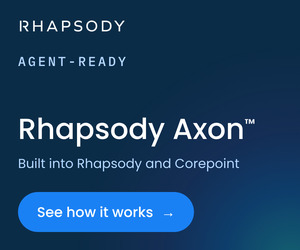
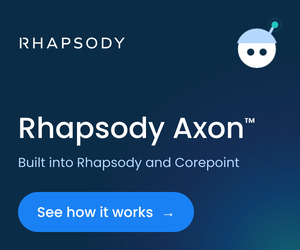
Add Teddie Mercury to the HCITT ads, drop the eyebrow
The AGENT-READY eyebrow was the website's "Agent-ready interoperability" label
truncated to fit the unit, and it read as a fragment rather than as the eyebrow
it came from. Removing it rather than shortening it further follows the rule to
cut copy instead of crushing type, and frees the slot for the mascot.

Teddie is the face of the Rhapsody Axon assistant per the mascot card, so he fits
an Axon-led ad. Placement follows the card: beside the copy and never in it, at
50px on the sidebar and 32px on the header against a 22-29px headline, clear of
the logo's X-height and not merged into a lockup, on navy over a soft Aurora
glow, with no dot device and one per asset.

On the header the mascot and a labelled pill cannot both sit beside the copy at
40px, which forces the CTA down to a bare arrow chip. Dropping him to 32px keeps
"See how" on the pill, which is the better trade on the unit that is buying
clickthroughs.

He ships static; the card permits animating him only from the approved animation
files and only a still is available here.

Two items for brand, both recorded in the README: a paid display ad is not one of
the mascot card's listed placements, and the character was isolated from the
homepage hero still by connected component rather than taken from an isolated
master file. The extraction is lossless, at native resolution, with no redraw,
recolor, re-pose or rescale, but it should be re-mastered before the ads run.
[…]

diff --git a/deliverables/hcitt-display-ads/README.md b/deliverables/hcitt-display-ads/README.md
@@ -2,14 +2,15 @@
 
 Animated GIF creative for the Healthcare IT Today header and sidebar placements,
 built to the 2026 design system (`brand-design-system-2026`) with copy per
-`rhapsody-brand`. Angle: the Rhapsody Axon™ agentic story.
+`rhapsody-brand`. Angle: the Rhapsody Axon™ agentic story, with Teddie Mercury as
+the face of the assistant.
 
 ## Files to send the publisher
 
 | Placement | File | Size | Weight |
 |---|---|---|---|
-| Header display ad | `rhapsody-hcitt-500x80.gif` | 500 × 80 | 93 KB |
-| Sidebar display ad | `rhapsody-hcitt-300x250.gif` | 300 × 250 | 180 KB |
+| Header display ad | `rhapsody-hcitt-500x80.gif` | 500 × 80 | 92 KB |
+| Sidebar display ad | `rhapsody-hcitt-300x250.gif` | 300 × 250 | 178 KB |
 
 **Click URL (both units):** `https://rhapsody.health/solutions/axon-ai-interoperability/`
 Append the tracking parameters before handoff. Healthcare IT Today accepts tracking links.
@@ -29,8 +30,8 @@ Three message beats, cross-faded, over a still Aurora soft wash on navy.
 2. The category claim
 3. **Rhapsody Axon™** + the CTA, which is where the ad comes to rest
 
-The Rhapsody logo, the mono eyebrow and the Rhapsody Blue CTA pill are on screen
-the whole time, so the ad is clickable and attributable at every moment of the loop.
+The Rhapsody logo, Teddie and the Rhapsody Blue CTA pill are on screen the whole
+time, so the ad is clickable and attributable at every moment of the loop.
 
 - **Loop:** 9.44s, played 3 times, then holds on the Rhapsody Axon™ + CTA frame.
   Total motion ≈ 28s. The `-loop` files run continuously instead.
@@ -39,6 +40,8 @@ the whole time, so the ad is clickable and attributable at every moment of the l
   layout this small, and it keeps the files light. (A drifting Aurora re-encodes the
   whole gradient on every frame and pushes the sidebar unit past 260 KB for motion
   that is imperceptible at 300 × 250.)
+- Teddie is **static**. The mascot card allows animating him only from the approved
+  animation files, and the only art available here is a still.
 
 ## Copy
 
@@ -47,7 +50,7 @@ the whole time, so the ad is clickable and attributable at every moment of the l
 2. The first healthcare integration agent.
 3. **Rhapsody Axon™** · CTA: See how →
 
-**300 × 250 sidebar** — light-blue mono eyebrow `AGENT-READY` throughout
+**300 × 250 sidebar**
 1. Your interface queue keeps growing. *Your team hasn't.*
 2. The first healthcare integration agent.
 3. **Rhapsody Axon™** / Built into Rhapsody and Corepoint · CTA: See how it works →
@@ -55,18 +58,36 @@ the whole time, so the ad is clickable and attributable at every moment of the l
 Beat 1 leads with the reader's reality before any product mention, per the
 audience-first rule. *Italics* above mark the light-blue half of the two-tone headline.
 
+There is no eyebrow on either unit. The earlier `AGENT-READY` label was the website's
+"Agent-ready interoperability" eyebrow truncated to fit, and it read as a fragment.
+Teddie now holds that slot, which is a better use of it than a shortened label.
+
+## Teddie Mercury placement
+
+Per the mascot card, he is the friendly face of the Rhapsody Axon assistant, so this
+is the right asset for an Axon-led ad. The usage rules are met:
+
+- **Beside the copy, never in it.** Top-right on the sidebar, after the logo on the
+  header. He is not in a headline, a capability statement, or a product lockup.
+- **Subordinate to the message.** 50px on the sidebar, 32px on the header, against a
+  22–29px headline. He accents, he does not lead.
+- **Clear of the logo.** At least 20px of separation, against a required clear space of
+  X (the height of the R, ~16px at the delivered logo width). Not merged into a lockup.
+- **Navy ground, soft Aurora glow**, which the card names as his habitat on the website.
+- **No dot devices.** One Teddie per asset. Not recolored, re-posed or given props.
+
 ## Brand check
 
-- Ground navy `#0B2C47`, CTA pill Rhapsody Blue `#1A81F4`, light blue `#B4D8FF` as the one
-  secondary accent. Three brand colors, navy-dominant. Teal `#23C5BF` appears only inside the
-  Aurora glow, which carries its own sanctioned teal/blue/purple palette.
+- Ground navy `#0B2C47`, CTA pill Rhapsody Blue `#1A81F4`, light blue `#B4D8FF` as the
+  one secondary accent. Navy-dominant. Teal `#23C5BF` appears only inside the Aurora
+  glow and on Teddie's antenna, both of which carry their own sanctioned palettes.
 - Aurora on navy only; glow runs teal → blue → purple, never orange. One device per ad.
-- Poppins Regular for copy, Medium for the product name and the CTA; IBM Plex Mono
-  for the eyebrow only.
+- Poppins Regular for copy, Medium for the product name and the CTA. No mono type
+  remains now that the eyebrow is gone.
 - One-color white logo on the dark ground, 108px wide (the on-screen minimum), with
   clear space ≥ the height of the R on every side.
-- Light blue 5.4–9.1:1, white 8.0–13.5:1, measured per pixel against the actual rendered
-  Aurora background rather than a flat navy assumption.
+- Light blue 5.4–8.6:1, white 8.0–13.4:1, measured per pixel against the actual
+  rendered Aurora background rather than a flat navy assumption.
 - Rhapsody Axon™ carries the ™ on its first and most prominent use, and never
   appears as "Axon" alone. No "integration engine", no em dashes, no end periods on
   the single-sentence beats.
@@ -75,12 +96,25 @@ audience-first rule. *Italics* above mark the light-blue half of the two-tone he
 ## Rebuilding
 
 Source and tooling live in the session scratchpad, not in this repo. To regenerate:
-`src/ad.html` renders any frame of either unit from `?unit=side|hdr&t=<ms>`;
+`src/ad.html` renders any frame of either unit from `?unit=side|hdr&t=<ms>`, with
+`&teddie=0` for a mascot-free version and `&chip=1` for the header's arrow-chip CTA;
 `render.js` screenshots the frame plan with headless Chromium at 3x; `build_gif.py`
 downsamples, dithers the shared background once and composites crisp type over it.
 
 ## Open items
 
+- **Teddie needs a brand sign-off for this placement.** The mascot card lists his
+  approved homes as the homepage hero, Rhapsody Axon AI feature bands, and culture,
+  event and swag moments. A paid display ad is none of those, though it is an Axon AI
+  message on navy over Aurora, which is the band case in all but placement. The brand
+  guide's rule is to leave him out unless the requester asks, and the requester asked.
+- **Teddie should be re-mastered from the isolated character file.** The only art in
+  this repo is `assets/figures/teddie-hero-frame.png`, the homepage hero still, where
+  he sits at the centre of the dot constellation. He was isolated from it losslessly by
+  connected component, at native resolution, with no redraw, recolor, re-pose or
+  rescale of the character itself, and every constellation dot dropped. That is still
+  an extraction from a composite rather than the master, so swap in the isolated file
+  from the brand package before these go out.
 - Healthcare IT Today publishes no maximum file weight for these slots. Both units
   are under 200 KB, which clears the common 200 KB publisher cap. Confirm with the rep.
 - If the rep enforces the legacy 15-second animation cap, drop to 2 loops and
